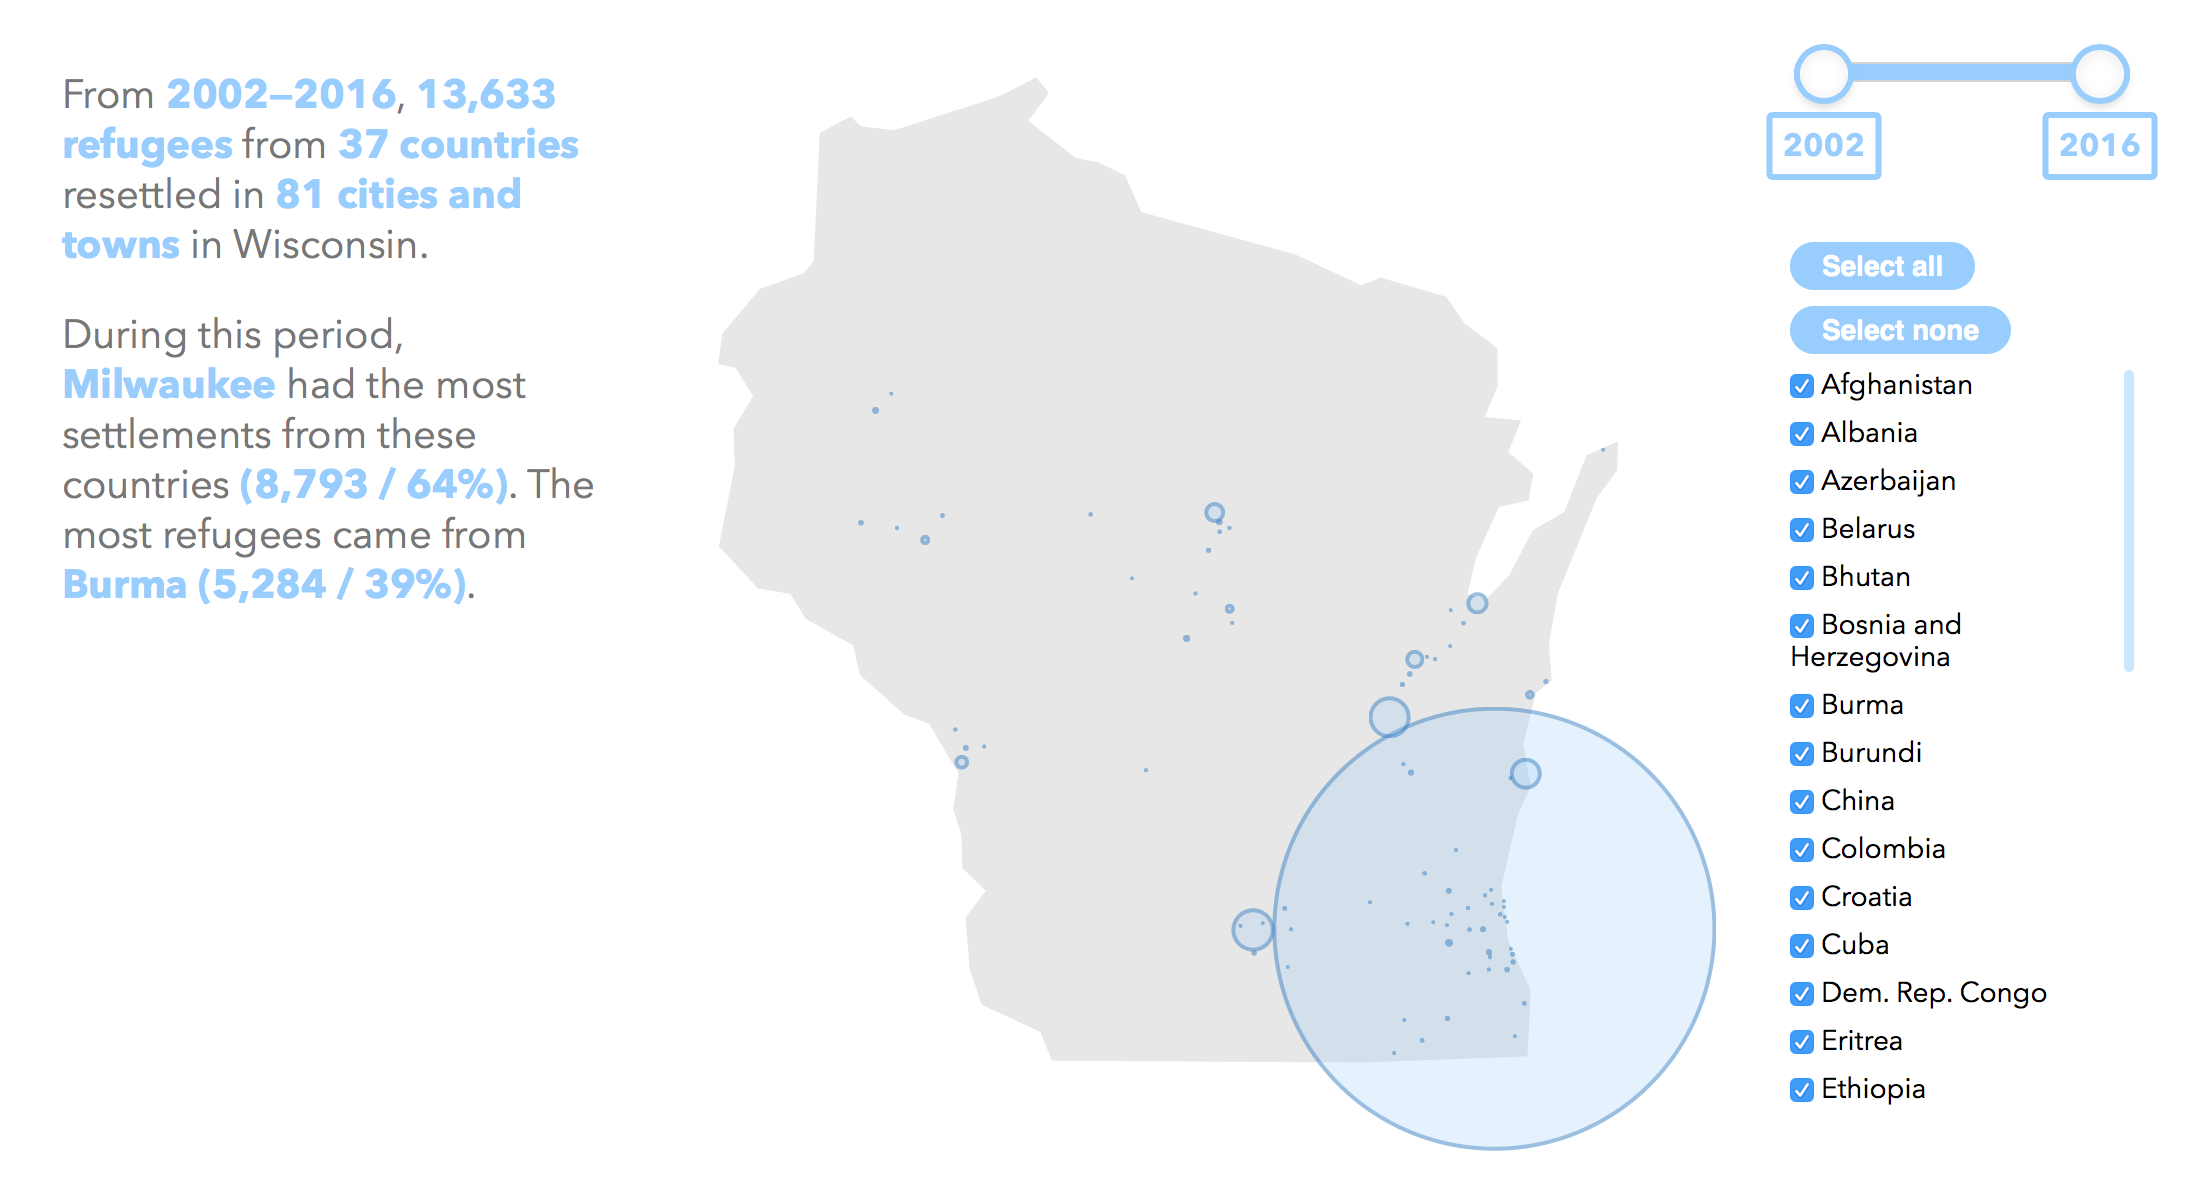
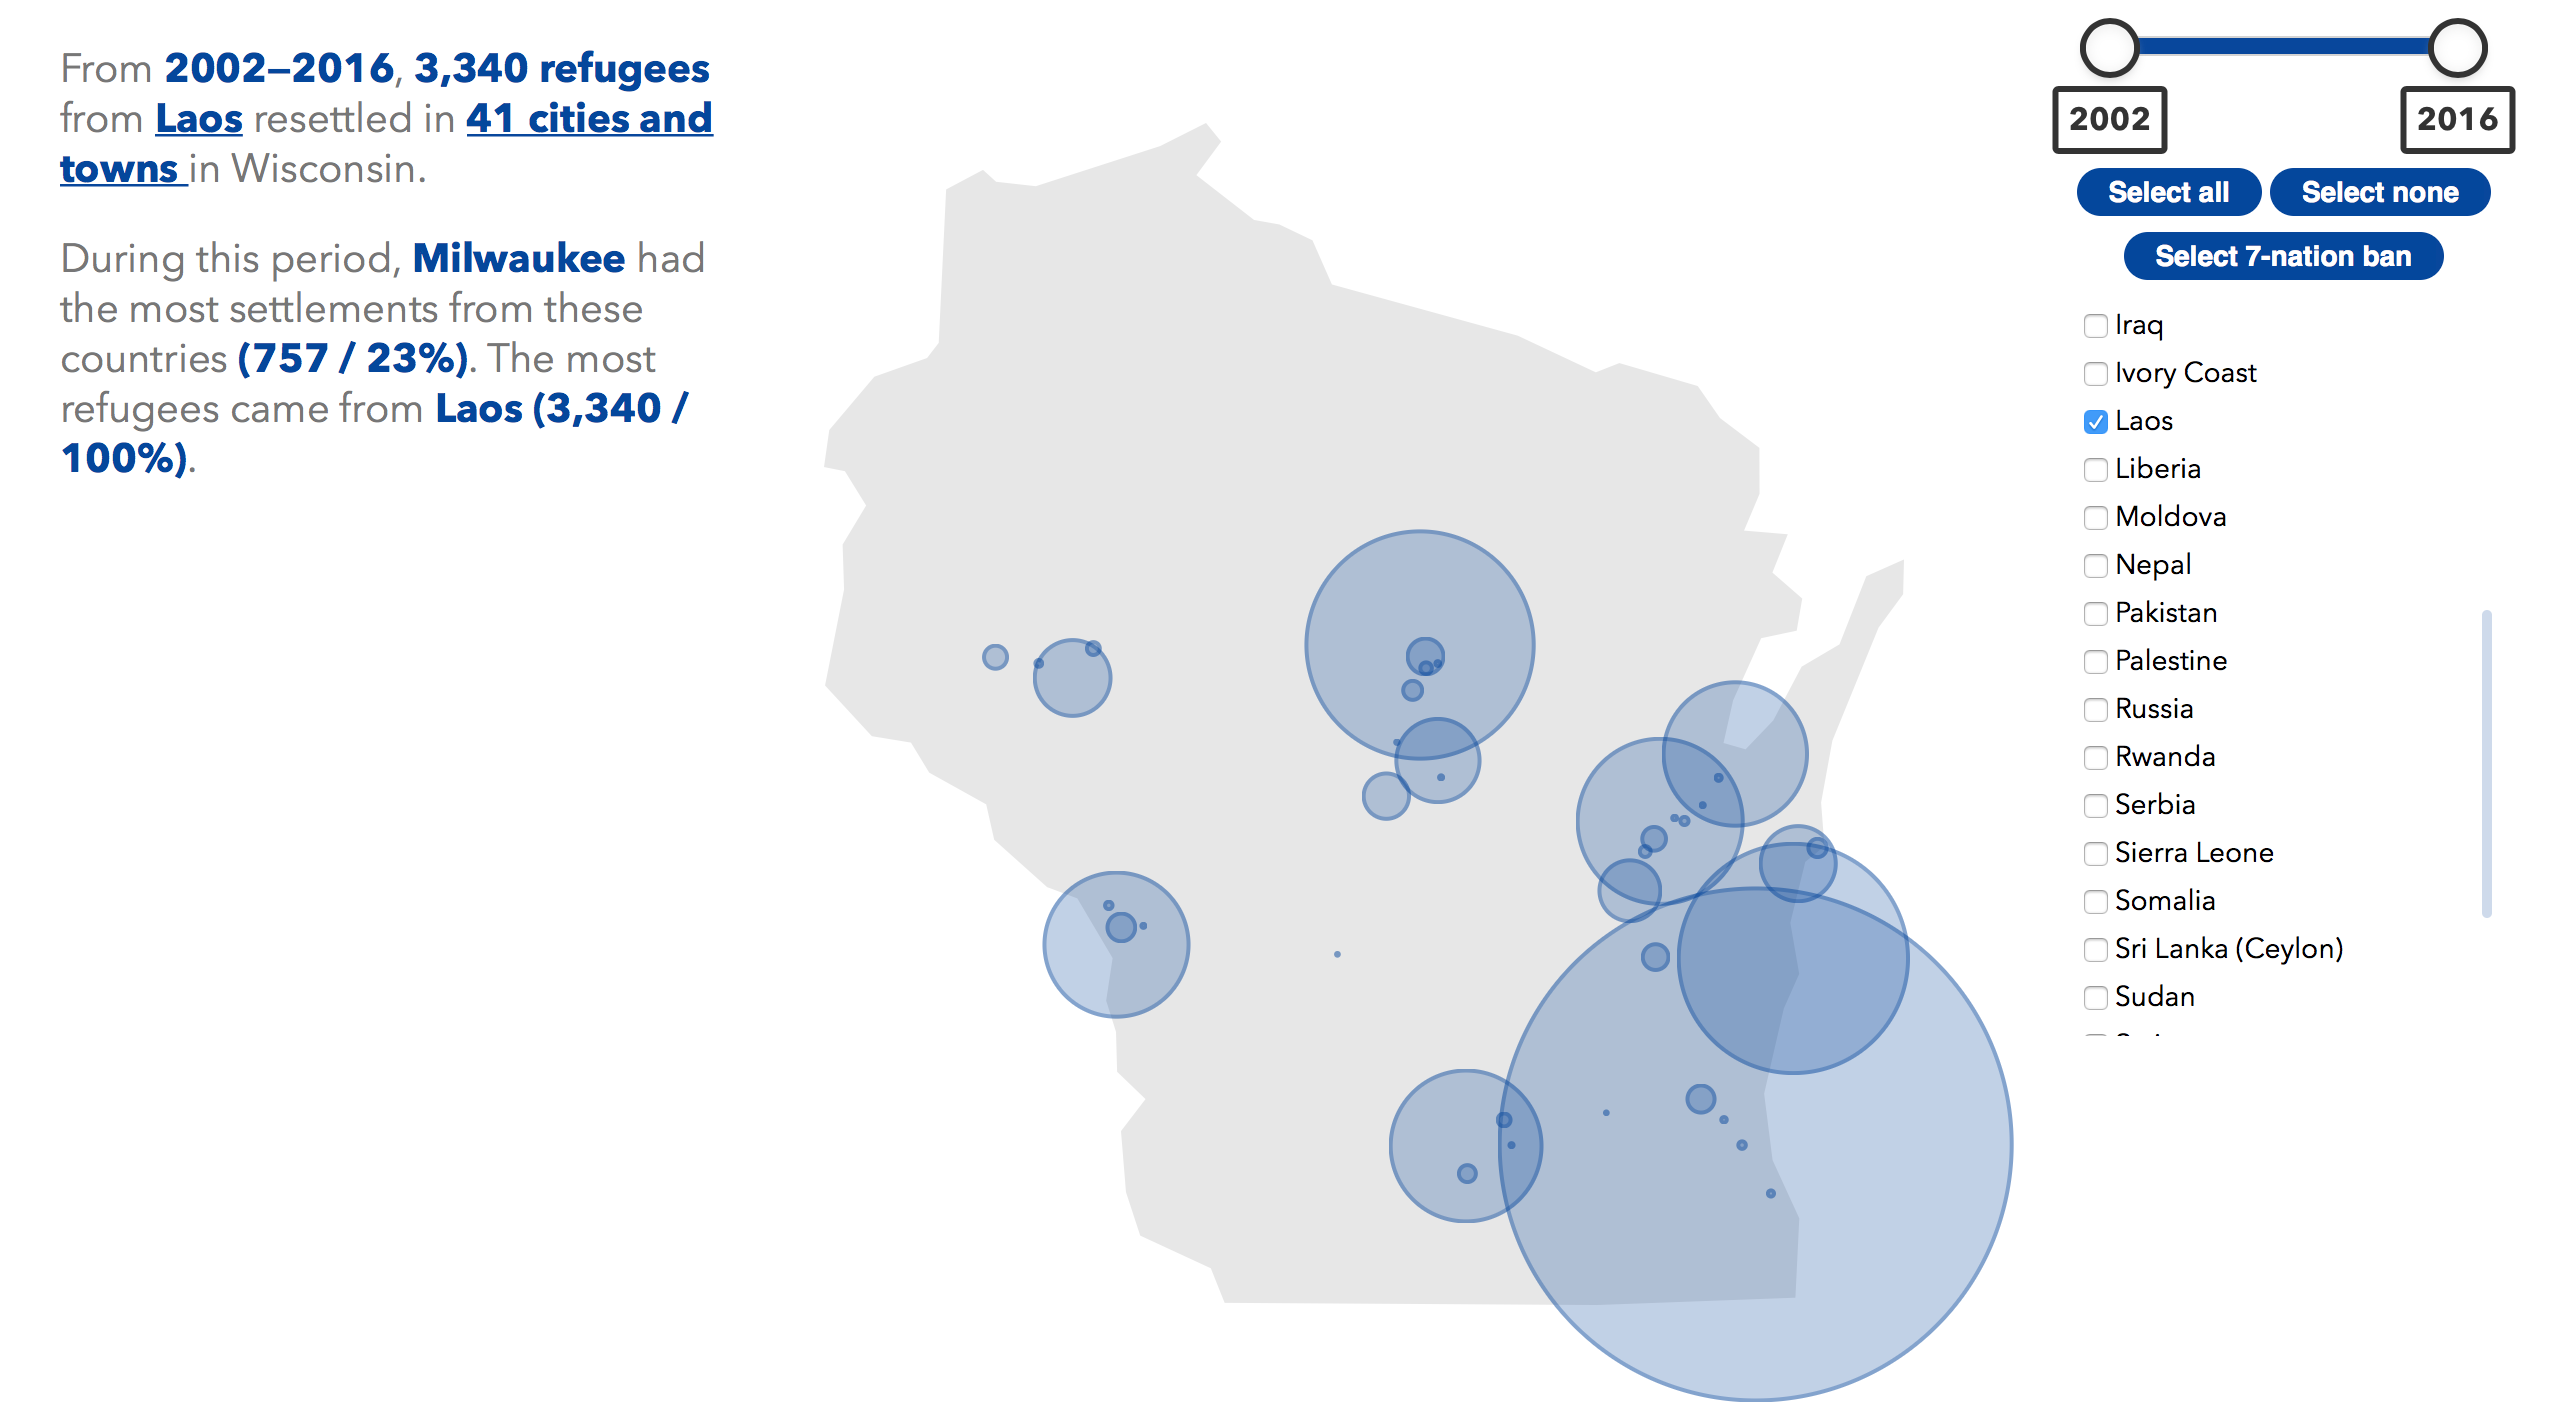
Update readme and color palette

diff --git a/index.html b/index.html
@@ -24,13 +24,13 @@
     <meta name="twitter:image" content="http://kevinmcgillivray.net/wisconsin-refugees/images/social-preview.png">
   </head>
   <body class="avenir">
-    <div class="pa2 pa3-l mb3 bg-light-blue tc">
-      <h1 class="f4 f3-l white mv0 lh-title">Refugee Resettlement in Wisconsin, 2002–2016</h1>
+    <div class="pa2 pa4-l mb3 bg-light-gray">
+      <h1 class="f4 f3-l dark-blue mv0 lh-title">Refugee Resettlement in Wisconsin, 2002–2016</h1>
     </div>
     <div class="mw9 center">
       <div class="ph3 tc">
-        <button id="nationalities-toggle" class="dib dn-ns mb2 bg-light-blue br-pill pv2 ph3 white b bn pointer dim">Filter countries</button>
-        <button id="years-toggle" class="dib dn-ns mb2 bg-light-blue br-pill pv2 ph3 white b bn pointer dim">Filter years</button>
+        <button id="nationalities-toggle" class="dib dn-ns mb2 bg-dark-blue br-pill pv2 ph3 white b bn pointer dim">Filter countries</button>
+        <button id="years-toggle" class="dib dn-ns mb2 bg-dark-blue br-pill pv2 ph3 white b bn pointer dim">Filter years</button>
       </div>
       <div class="cf w-100">
         <div class="fr-ns w-40-ns w-20-l ph3 pl0-l pr3-l">
@@ -39,10 +39,10 @@
           </div>
           <div class="w-100 pa3 dn db-ns bg-white fixed static-ns left-0 top-0" id="nationalities-menu">
             <div class="tc-ns">
-              <button id="nationalities-close" class="dn-ns fixed top-1 right-1 dib f6 mb2 br-pill pv1 ph3 bg-light-blue white b bn pointer dim" id="select-all">X</button>
-              <button class="dib f6 mt2-ns mb2 bg-light-blue br-pill pv1 ph3 white b bn pointer dim" id="select-all">Select all</button>
-              <button class="dib f6 mb2 bg-light-blue br-pill pv1 ph3 white b bn pointer dim" id="select-none">Select none</button>
-              <button class="dib f6 mb2 bg-light-blue br-pill pv1 ph3 white b bn pointer dim" id="select-ban">Select 7-nation ban</button>
+              <button id="nationalities-close" class="dn-ns fixed top-1 right-1 dib f6 mb2 br-pill pv1 ph3 bg-dark-blue white b bn pointer dim" id="select-all">X</button>
+              <button class="dib f6 mt2-ns mb2 bg-dark-blue br-pill pv1 ph3 white b bn pointer dim" id="select-all">Select all</button>
+              <button class="dib f6 mb2 bg-dark-blue br-pill pv1 ph3 white b bn pointer dim" id="select-none">Select none</button>
+              <button class="dib f6 mb2 bg-dark-blue br-pill pv1 ph3 white b bn pointer dim" id="select-ban">Select 7-nation ban</button>
             </div>
             <div class="pl1" id="nationalities-list">
               <label class="db mb2 f6"><input checked class="nationality-select" value="Afghanistan" type="checkbox"> Afghanistan</label>
@@ -89,22 +89,24 @@
           <svg class="locations" preserveAspectRatio="xMidYMid meet"></svg>
         </div>
         <div class="mw6-ns center fr-l w-30-l ph3 pl4-l f4-l">
-          <p class="gray lh-title"><span id="years">From <span class="b light-blue">2002—2016</span></span>, <span id="total-count" class="b light-blue">X refugees</span> from <span id="nationalities" class="b light-blue pointer dim">X countries</span> resettled in <span id="number-of-locations" class="b light-blue pointer dim">X cities and towns</span> in Wisconsin.</p>
-          <div class="pa3 ba b--light-blue bw1 br3 dn f5" id="countries-list"></div>
-          <div class="pa3 ba b--light-blue bw1 br3 dn f5" id="cities-list"></div>
-          <p id="highest-info" class="gray lh-title dn">During this period, <span id="highest-city" class="b light-blue">Milwaukee</span> had the most settlements from these countries <span id="highest-city-count" class="b light-blue">(8,000 / 80%)</span>. The most refugees came from <span id="highest-nationality" class="b light-blue">X</span> <span id="highest-nationality-count" class="b light-blue">(8,000 / 80%)</span>.</p>
+          <p class="gray lh-title"><span id="years">From <span class="b dark-blue">2002—2016</span></span>, <span id="total-count" class="b dark-blue">X refugees</span> from <span id="nationalities" class="underline b dark-blue pointer dim">X countries</span> resettled in <span id="number-of-locations" class="underline b dark-blue pointer dim">X cities and towns</span> in Wisconsin.</p>
+          <div class="pa3 ba b--dark-blue bw1 br3 dn f5" id="countries-list"></div>
+          <div class="pa3 ba b--dark-blue bw1 br3 dn f5" id="cities-list"></div>
+          <p id="highest-info" class="gray lh-title dn">During this period, <span id="highest-city" class="b dark-blue">Milwaukee</span> had the most settlements from these countries <span id="highest-city-count" class="b dark-blue">(8,000 / 80%)</span>. The most refugees came from <span id="highest-nationality" class="b dark-blue">X</span> <span id="highest-nationality-count" class="b dark-blue">(8,000 / 80%)</span>.</p>
         </div>
       </div>
     </div>
 
-    <div class="bg-light-blue dark-gray pa3 mt3">
+    <div class="bg-light-gray dark-gray pa3 mt3">
       <div class="mw7 center">
         <h2>Sources</h2>
         <ul class="list pl0">
-          <li class="mb2"><a target="_blank" class="link white" href="http://www.wrapsnet.org">Refugee Processing Center</a> (<a target="_blank" class="link white" href="http://ireports.wrapsnet.org">Database</a>, <a class="link white" href="data/arrivals-by-destination-and-nationality.pdf">PDF</a>)</li>
-          <li class="mb2"><a target="_blank" class="link white" href="http://www.wiscontext.org/refugee-resettlement-wisconsin-numbers">Wiscontext</a></li>
+          <li class="mb2"><a target="_blank" class="dark-gray" href="http://www.wrapsnet.org">Refugee Processing Center</a> (<a target="_blank" class="dark-gray" href="http://ireports.wrapsnet.org">Database</a>, <a class="dark-gray" href="data/arrivals-by-destination-and-nationality.pdf">PDF</a>)</li>
+          <li class="mb2"><a target="_blank" class="dark-gray" href="http://www.wiscontext.org/refugee-resettlement-wisconsin-numbers">Wiscontext</a></li>
         </ul>
-        <p>Made by <a target="_blank" class="link white" href="http://kevinmcgillivray.net/about">Kevin McGillivray</a> on January 29th, 2017. <a target="_blank" class="link white" href="http://github.com/kmcgillivray/wisconsin-refugees">Source code on GitHub</a>.</p>
+        <h2>Credits</h2>
+        <p>Made by <a target="_blank" class="dark-gray" href="http://kevinmcgillivray.net/about">Kevin McGillivray</a> on January 29th, 2017. <a target="_blank" class="dark-gray" href="http://github.com/kmcgillivray/wisconsin-refugees">Source code on GitHub</a>.</p>
+        <p>Read more about this project <a href="https://www.kevinmcgillivray.net/wisconsin-refugees-reflection/" class="dark-gray">here</a>.</p>
       </div>
     </div>
 

diff --git a/scripts/Vis.js b/scripts/Vis.js
@@ -56,9 +56,9 @@ function Vis(className, isProportional) {
       var startYear = query.years.startYear;
       var endYear = query.years.endYear;
       if (startYear != endYear) {
-        return "From <span class='b light-blue'>" + query.years.startYear + "—" + query.years.endYear + "</span>";
+        return "From <span class='b dark-blue'>" + query.years.startYear + "—" + query.years.endYear + "</span>";
       } else {
-        return "In <span class='b light-blue'>" + query.years.startYear + "</span>";
+        return "In <span class='b dark-blue'>" + query.years.startYear + "</span>";
       }
     })();
 
@@ -67,7 +67,7 @@ function Vis(className, isProportional) {
       nationalityArr.sort(function(a,b) {
         return b.count - a.count;
       });
-      var str = "<h3 class='light-blue mt0'>Nationalities</h3><ul class='gray list pl0 mv0'>";
+      var str = "<h3 class='dark-blue mt0'>Nationalities</h3><ul class='gray list pl0 mv0'>";
       for (var i = 0; i < nationalityArr.length; i++) {
         var country = nationalityArr[i];
         if (country.count > 0) {
@@ -83,7 +83,7 @@ function Vis(className, isProportional) {
       cityArr.sort(function(a,b) {
         return b.count - a.count;
       });
-      var str = "<h3 class='light-blue mt0'>Locations</h3><ul class='gray list pl0 mv0'>";
+      var str = "<h3 class='dark-blue mt0'>Locations</h3><ul class='gray list pl0 mv0'>";
       for (var i = 0; i < cityArr.length; i++) {
         var city = cityArr[i];
         str += "<li class='mb2'><span class='b'>" + city.name + ":</span> " + city.count +  "</li>";
@@ -217,8 +217,8 @@ function Vis(className, isProportional) {
              return 0;
            }
          })
-         .style("fill", "rgba(150, 204, 255, 0.5)")
-         .style("stroke", "#317ec6")
+         .style("fill", "rgba(0, 68, 158, 0.5)")
+         .style("stroke", "#00449e")
          .style("stroke-width", "2px")
          .style("opacity", 0.5);
     });

diff --git a/styles/main.css b/styles/main.css
@@ -2,7 +2,7 @@ circle {
   cursor: pointer;
 }
 .noUi-connect {
-  background: #96ccff;
+  background: #00449e;
   box-shadow: none;
 }
 .noUi-horizontal {
@@ -10,17 +10,17 @@ circle {
 }
 .noUi-horizontal .noUi-tooltip {
   bottom: -170%;
-  color: #96ccff;
+  color: #333;
   font-weight: bold;
   font-size: 1rem;
-  border: 3px solid #96ccff;
+  border: 3px solid #333;
 }
 .noUi-horizontal .noUi-handle {
   height: 30px;
   width: 30px;
   left: -15px;
   top: -10px;
-  border: 3px solid #96ccff;
+  border: 3px solid #333;
 }
 .noUi-handle:after, .noUi-handle:before {
   display: none;
@@ -51,6 +51,7 @@ circle {
 }
 #nationalities-list::-webkit-scrollbar-thumb {
     border-radius: 4px;
-    background-color: rgba(150, 204, 255, 0.5);
+    background-color: #00449e;
+    opacity: 0.2;
     -webkit-box-shadow: 0 0 1px rgba(255,255,255,.5);
 }

diff --git a/readme.md b/readme.md
@@ -17,6 +17,8 @@ This project uses...
 * [noUiSlider](https://refreshless.com/nouislider/) for the fancy year slider.
 * And otherwise vanilla JavaScript, HTML, and CSS.
 
+See [this post](https://www.kevinmcgillivray.net/wisconsin-refugees-development-notes/) for more development notes.
+
 ## Contributing
 
 Open an issue with suggestions or fork the project and make a pull request! [Get in touch](http://twitter.com/kev_mcg) if you're not sure how to do that.
